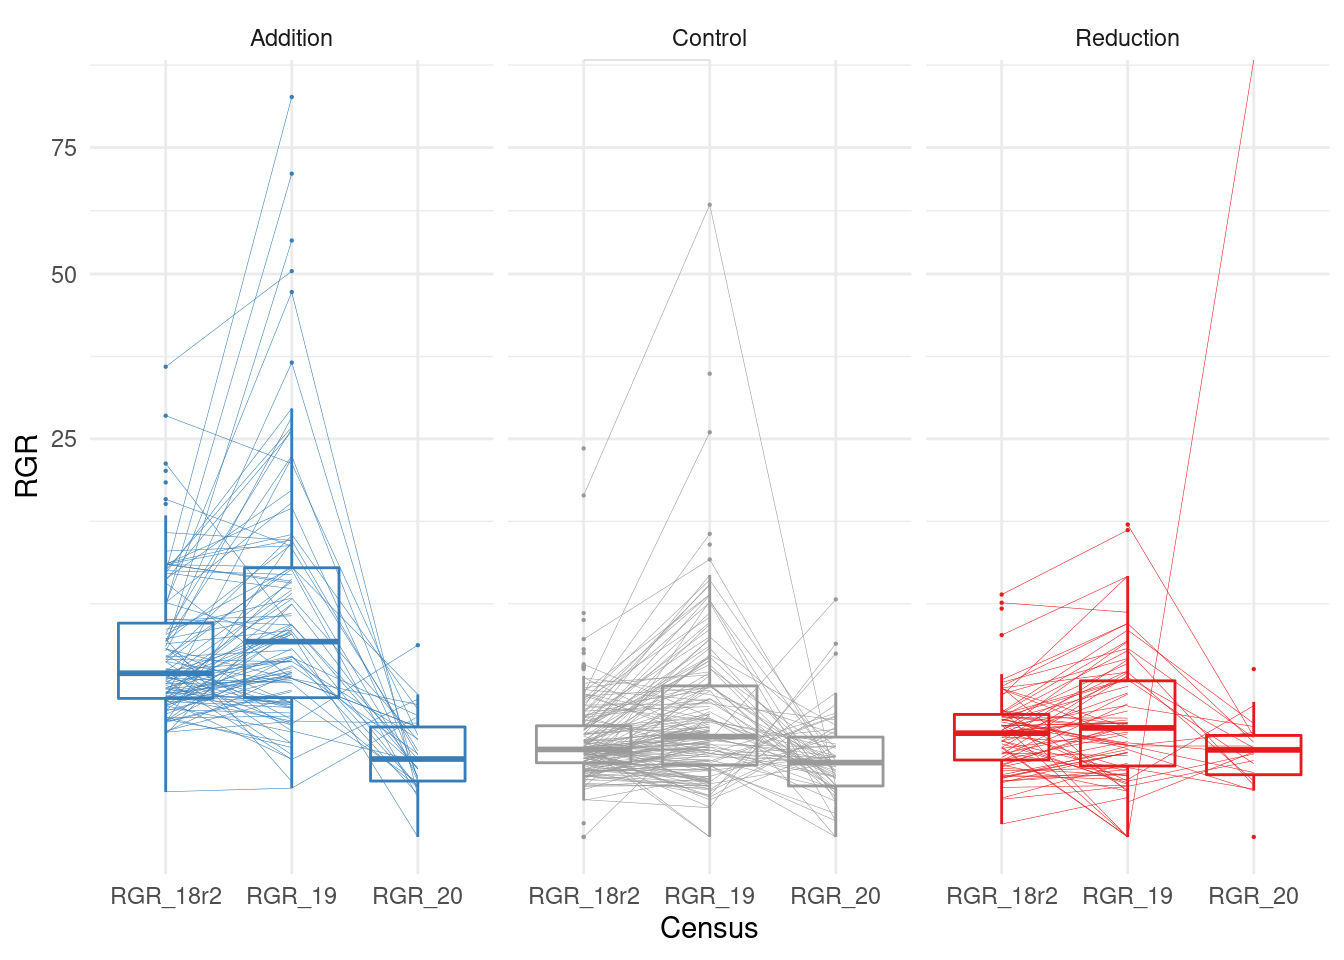
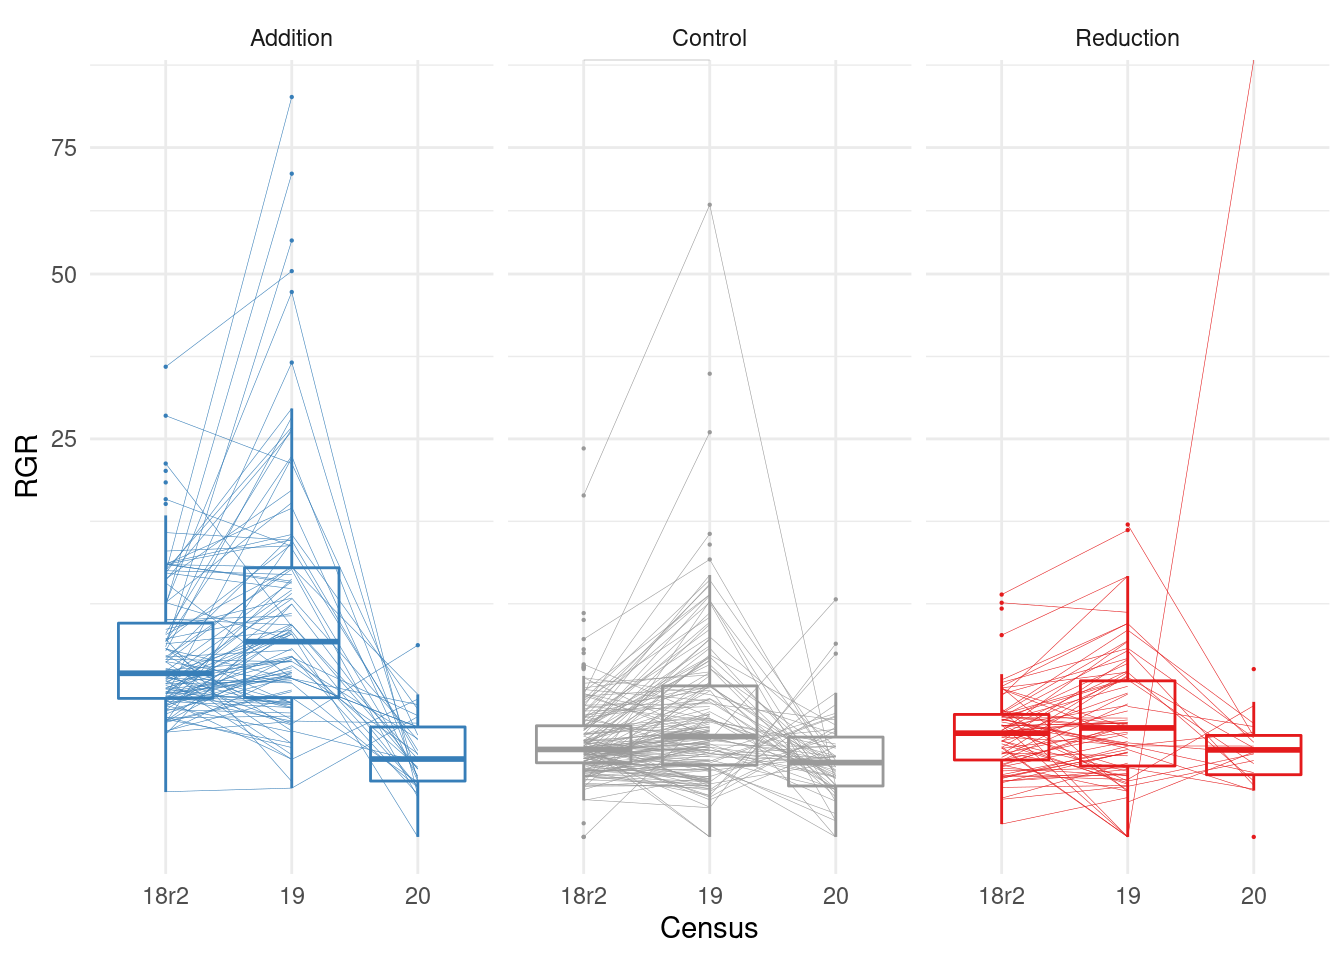
RGR selection on traits

diff --git a/maxfield_JP_analyses.html b/maxfield_JP_analyses.html
@@ -11,7 +11,7 @@
 
 <meta name="author" content="John Powers" />
 
-<meta name="date" content="2021-04-26" />
+<meta name="date" content="2021-04-29" />
 
 <title>Maxfield Meadow Ipomopsis Experiment</title>
 
@@ -255,7 +255,7 @@ div.tocify {
 
 <h1 class="title toc-ignore">Maxfield Meadow Ipomopsis Experiment</h1>
 <h4 class="author"><a href="http://sites.uci.edu/powers/">John Powers</a></h4>
-<h4 class="date">2021-04-26</h4>
+<h4 class="date">2021-04-29</h4>
 
 </div>
 
@@ -314,7 +314,9 @@ Anova_table &lt;- function(df) { #for glmmTMB models and car::Anova
 re_table &lt;- function(coefs) {
   coefs %&gt;% filter(effect==&quot;ran_pars&quot;) %&gt;% select(trait, group, estimate) %&gt;% pivot_wider(names_from=group, values_from=estimate)
 }
-select &lt;- dplyr::select</code></pre>
+select &lt;- dplyr::select
+year.round_pal &lt;- c(set_names(year_pal, paste0(names(year_pal),&quot;.2&quot;)), 
+                              set_names(brewer.pal(6, &quot;Dark2&quot;)[c(2,3,6)], paste0(names(year_pal),&quot;.1&quot;)))</code></pre>
 <pre class="r"><code>subplot_offset &lt;- 1/6
 size_meter &lt;- 6
 ggplot(treatments_map) + coord_fixed(clip=&quot;off&quot;)+
@@ -1818,9 +1820,15 @@ Conditional model:
   scale_color_manual(values=water_pal, guide=F) + theme_minimal() + 
   scale_y_sqrt() + labs(x=&quot;Census&quot;, y=&quot;Longest leaf (mm) * number of leaves&quot;)</code></pre>
 <p><img src="images/sizemetric-1.png" width="672" /></p>
-<pre class="r"><code>cen.size %&gt;% select(plantid, plotid, census, size) %&gt;%
+<pre class="r"><code>cen.RGR &lt;- cen.size %&gt;% select(plantid, plotid, census, size) %&gt;%
   pivot_wider(names_from=&quot;census&quot;, names_prefix=&quot;size&quot;, values_from=&quot;size&quot;) %&gt;% 
-  mutate(RGR_18r2 = size18r2/size18, RGR_19=size19/size18, RGR_20=size20/size19, year=&quot;2018&quot;) %&gt;% left_join(treatments) %&gt;% pivot_longer(starts_with(&quot;RGR&quot;), names_to=&quot;census&quot;, values_to=&quot;RGR&quot;) %&gt;% 
+  mutate(RGR_18r2 = size18r2/size18, RGR_19=size19/size18, RGR_20=size20/size19)
+
+cen.RGR.long &lt;- cen.RGR %&gt;% select(plantid, plotid, starts_with(&quot;RGR&quot;)) %&gt;% 
+  pivot_longer(starts_with(&quot;RGR&quot;), names_to=&quot;census&quot;, names_prefix=&quot;RGR_&quot;, values_to=&quot;RGR&quot;) %&gt;% 
+  mutate(year=recode(census, `18r2`=&quot;2017&quot;, `19`=&quot;2018&quot;, `20`=&quot;2019&quot;)) #growth to next year
+  
+cen.RGR.long %&gt;% mutate(year = as.character(as.integer(year)+1)) %&gt;% left_join(treatments) %&gt;% #get the second year to match with treatments
   ggplot(aes(x=census, y=RGR, color=water))+ facet_wrap(vars(water))+
   geom_boxplot(outlier.size=0.1)+ geom_path(aes(group=plantid), size=0.1)+
   scale_color_manual(values=water_pal, guide=F) + theme_minimal() + 
@@ -4838,8 +4846,7 @@ lt.mod.sm.rm &lt;- map(set_names(leaftraits), ~ lmer(lt.plantyr[[.x]] ~ year * V
                                                   data=lt.plantyr %&gt;% mutate(VWC=VWC.sm, year=year.round)))
 
 plot_sm(lt.mod.sm.rm, lt.plantyr %&gt;% mutate(VWC=VWC.sm, year=year.round), leaftraits) + 
-  scale_color_manual(values=c(set_names(year_pal, paste0(names(year_pal),&quot;.2&quot;)), 
-                              set_names(brewer.pal(6, &quot;Dark2&quot;)[c(2,3,6)], paste0(names(year_pal),&quot;.1&quot;))))+
+  scale_color_manual(values=year.round_pal)+
   geom_smooth(aes(group=1), color=&quot;black&quot;, se=F) + scale_y_continuous(breaks = -5:5) +
   labs(color=&quot;Year, round&quot;) + xlab(&quot;Soil moisture in subplot on closest date (%VWC)&quot;) </code></pre>
 <p><img src="images/lt_repeated_sm-1.png" width="768" /></p>
@@ -6068,6 +6075,181 @@ plot_abs(mod.abs, mnps.subplot, floraltraits[1:6]) + #Morphological traits - sub
     scale_y_continuous(limits=c(-1.7, 2.8), breaks=c(-1:2))
 ggsave(filename=&quot;../snow_precip_mt.png&quot;, width=7, height=4)</code></pre>
 </div>
+</div>
+<div id="growth-rate-selection" class="section level1">
+<h1>Growth rate selection</h1>
+<pre class="r"><code>lt.plantyr %&gt;% left_join(cen.RGR.long) %&gt;% select(all_of(c(leaftraits, &quot;RGR&quot;)), year) %&gt;% 
+  pivot_longer(all_of(leaftraits), names_to=&quot;trait&quot;) %&gt;% 
+  ggplot(aes(x=value, y=RGR, color=year.round)) + geom_point() + geom_smooth(method=&quot;lm&quot;,se=F) + 
+  facet_wrap(vars(trait), scales=&quot;free_x&quot;, labeller=as_labeller(traitnames)) + 
+  labs(x=&quot;Trait&quot;, y=&quot;RGR&quot;, color=&quot;Year&quot;)+ scale_y_sqrt()+
+  theme_bw() + scale_color_manual(values=year.round_pal)</code></pre>
+<p><img src="images/rgr_selection-1.png" width="576" /></p>
+<pre class="r"><code>pt.plantyr %&gt;% left_join(cen.RGR.long) %&gt;% select(all_of(c(phystraits, &quot;RGR&quot;)), year) %&gt;% 
+  pivot_longer(all_of(phystraits), names_to=&quot;trait&quot;) %&gt;% 
+  ggplot(aes(x=value, y=RGR, color=year)) + geom_point() + geom_smooth(method=&quot;lm&quot;,se=F) + 
+  facet_wrap(vars(trait), scales=&quot;free_x&quot;, labeller=as_labeller(traitnames)) + 
+  labs(x=&quot;Trait&quot;, y=&quot;RGR&quot;, color=&quot;Year&quot;)+ scale_y_sqrt()+
+  theme_bw() + scale_color_manual(values=year_pal)</code></pre>
+<p><img src="images/rgr_selection-2.png" width="576" /></p>
+<pre class="r"><code>map(map(set_names(leaftraits), 
+                   ~ lm(RGR_rel ~ trait.z, 
+                         data=lt.plantyr.r2 %&gt;% ungroup %&gt;% left_join(cen.RGR.long) %&gt;% mutate(trait.z = lt.plantyr.r2[[.x]] / alltraits.sd[[.x]]) %&gt;% 
+                           group_by(year) %&gt;% mutate(RGR_rel = RGR/mean(RGR, na.rm=T), year=factor(year)))), summary)</code></pre>
+<pre><code>$sla
+
+Call:
+lm(formula = RGR_rel ~ trait.z, data = lt.plantyr.r2 %&gt;% ungroup %&gt;% 
+    left_join(cen.RGR.long) %&gt;% mutate(trait.z = lt.plantyr.r2[[.x]]/alltraits.sd[[.x]]) %&gt;% 
+    group_by(year) %&gt;% mutate(RGR_rel = RGR/mean(RGR, na.rm = T), 
+    year = factor(year)))
+
+Residuals:
+   Min     1Q Median     3Q    Max 
+-0.995 -0.669 -0.329  0.391  3.893 
+
+Coefficients:
+            Estimate Std. Error t value Pr(&gt;|t|)
+(Intercept)    1.713      1.428     1.2     0.24
+trait.z       -0.247      0.492    -0.5     0.62
+
+Residual standard error: 1.03 on 43 degrees of freedom
+  (234 observations deleted due to missingness)
+Multiple R-squared:  0.00583,   Adjusted R-squared:  -0.0173 
+F-statistic: 0.252 on 1 and 43 DF,  p-value: 0.618
+
+
+$trichome_density
+
+Call:
+lm(formula = RGR_rel ~ trait.z, data = lt.plantyr.r2 %&gt;% ungroup %&gt;% 
+    left_join(cen.RGR.long) %&gt;% mutate(trait.z = lt.plantyr.r2[[.x]]/alltraits.sd[[.x]]) %&gt;% 
+    group_by(year) %&gt;% mutate(RGR_rel = RGR/mean(RGR, na.rm = T), 
+    year = factor(year)))
+
+Residuals:
+   Min     1Q Median     3Q    Max 
+-1.014 -0.596 -0.274  0.307  3.911 
+
+Coefficients:
+            Estimate Std. Error t value Pr(&gt;|t|)    
+(Intercept)    1.240      0.259    4.78    1e-05 ***
+trait.z       -0.173      0.168   -1.03     0.31    
+---
+Signif. codes:  0 &#39;***&#39; 0.001 &#39;**&#39; 0.01 &#39;*&#39; 0.05 &#39;.&#39; 0.1 &#39; &#39; 1
+
+Residual standard error: 0.932 on 66 degrees of freedom
+  (211 observations deleted due to missingness)
+Multiple R-squared:  0.0158,    Adjusted R-squared:  0.00091 
+F-statistic: 1.06 on 1 and 66 DF,  p-value: 0.307
+
+
+$water_content
+
+Call:
+lm(formula = RGR_rel ~ trait.z, data = lt.plantyr.r2 %&gt;% ungroup %&gt;% 
+    left_join(cen.RGR.long) %&gt;% mutate(trait.z = lt.plantyr.r2[[.x]]/alltraits.sd[[.x]]) %&gt;% 
+    group_by(year) %&gt;% mutate(RGR_rel = RGR/mean(RGR, na.rm = T), 
+    year = factor(year)))
+
+Residuals:
+   Min     1Q Median     3Q    Max 
+-1.153 -0.564 -0.132  0.107  3.695 
+
+Coefficients:
+            Estimate Std. Error t value Pr(&gt;|t|)  
+(Intercept)   -3.043      2.121   -1.43    0.159  
+trait.z        0.481      0.252    1.91    0.063 .
+---
+Signif. codes:  0 &#39;***&#39; 0.001 &#39;**&#39; 0.01 &#39;*&#39; 0.05 &#39;.&#39; 0.1 &#39; &#39; 1
+
+Residual standard error: 0.99 on 43 degrees of freedom
+  (234 observations deleted due to missingness)
+Multiple R-squared:  0.0783,    Adjusted R-squared:  0.0568 
+F-statistic: 3.65 on 1 and 43 DF,  p-value: 0.0627</code></pre>
+<pre class="r"><code>map(map(set_names(phystraits), 
+                   ~ lm(RGR_rel ~ trait.z * year, 
+                         data=pt.plantyr %&gt;% ungroup %&gt;% left_join(cen.RGR.long) %&gt;% mutate(trait.z = pt.plantyr[[.x]] / alltraits.sd[[.x]]) %&gt;% 
+                           group_by(year) %&gt;% mutate(RGR_rel = RGR/mean(RGR, na.rm=T), year=factor(year)))), summary)</code></pre>
+<pre><code>$photosynthesis
+
+Call:
+lm(formula = RGR_rel ~ trait.z * year, data = pt.plantyr %&gt;% 
+    ungroup %&gt;% left_join(cen.RGR.long) %&gt;% mutate(trait.z = pt.plantyr[[.x]]/alltraits.sd[[.x]]) %&gt;% 
+    group_by(year) %&gt;% mutate(RGR_rel = RGR/mean(RGR, na.rm = T), 
+    year = factor(year)))
+
+Residuals:
+   Min     1Q Median     3Q    Max 
+-1.615 -0.609 -0.312  0.360  4.279 
+
+Coefficients:
+              Estimate Std. Error t value Pr(&gt;|t|)   
+(Intercept)      0.771      0.248    3.10   0.0026 **
+trait.z          0.186      0.142    1.32   0.1919   
+year1           -0.268      0.248   -1.08   0.2843   
+trait.z:year1    0.209      0.142    1.48   0.1428   
+---
+Signif. codes:  0 &#39;***&#39; 0.001 &#39;**&#39; 0.01 &#39;*&#39; 0.05 &#39;.&#39; 0.1 &#39; &#39; 1
+
+Residual standard error: 1.04 on 82 degrees of freedom
+  (241 observations deleted due to missingness)
+Multiple R-squared:  0.0569,    Adjusted R-squared:  0.0224 
+F-statistic: 1.65 on 3 and 82 DF,  p-value: 0.184
+
+
+$conductance
+
+Call:
+lm(formula = RGR_rel ~ trait.z * year, data = pt.plantyr %&gt;% 
+    ungroup %&gt;% left_join(cen.RGR.long) %&gt;% mutate(trait.z = pt.plantyr[[.x]]/alltraits.sd[[.x]]) %&gt;% 
+    group_by(year) %&gt;% mutate(RGR_rel = RGR/mean(RGR, na.rm = T), 
+    year = factor(year)))
+
+Residuals:
+   Min     1Q Median     3Q    Max 
+-1.656 -0.574 -0.244  0.245  4.445 
+
+Coefficients:
+              Estimate Std. Error t value Pr(&gt;|t|)    
+(Intercept)     1.0588     0.2445    4.33  4.2e-05 ***
+trait.z         0.0479     0.1385    0.35    0.730    
+year1          -0.4094     0.2445   -1.67    0.098 .  
+trait.z:year1   0.3271     0.1385    2.36    0.021 *  
+---
+Signif. codes:  0 &#39;***&#39; 0.001 &#39;**&#39; 0.01 &#39;*&#39; 0.05 &#39;.&#39; 0.1 &#39; &#39; 1
+
+Residual standard error: 1.02 on 82 degrees of freedom
+  (241 observations deleted due to missingness)
+Multiple R-squared:  0.0926,    Adjusted R-squared:  0.0594 
+F-statistic: 2.79 on 3 and 82 DF,  p-value: 0.0456
+
+
+$WUE
+
+Call:
+lm(formula = RGR_rel ~ trait.z * year, data = pt.plantyr %&gt;% 
+    ungroup %&gt;% left_join(cen.RGR.long) %&gt;% mutate(trait.z = pt.plantyr[[.x]]/alltraits.sd[[.x]]) %&gt;% 
+    group_by(year) %&gt;% mutate(RGR_rel = RGR/mean(RGR, na.rm = T), 
+    year = factor(year)))
+
+Residuals:
+   Min     1Q Median     3Q    Max 
+-1.345 -0.654 -0.308  0.314  4.384 
+
+Coefficients:
+              Estimate Std. Error t value Pr(&gt;|t|)    
+(Intercept)     1.2068     0.2645    4.56  1.8e-05 ***
+trait.z        -0.0979     0.1837   -0.53     0.60    
+year1           0.2517     0.2645    0.95     0.34    
+trait.z:year1  -0.1386     0.1837   -0.75     0.45    
+---
+Signif. codes:  0 &#39;***&#39; 0.001 &#39;**&#39; 0.01 &#39;*&#39; 0.05 &#39;.&#39; 0.1 &#39; &#39; 1
+
+Residual standard error: 1.06 on 82 degrees of freedom
+  (241 observations deleted due to missingness)
+Multiple R-squared:  0.0343,    Adjusted R-squared:  -0.001 
+F-statistic: 0.972 on 3 and 82 DF,  p-value: 0.41</code></pre>
 </div>
 <div id="phenology" class="section level1">
 <h1>Phenology</h1>
